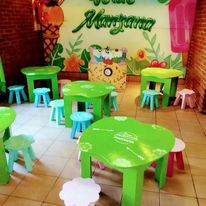
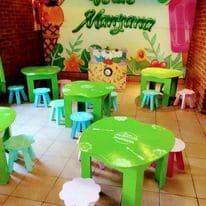
Se comprimieron las imagenes

diff --git a/pages/quienes.html b/pages/quienes.html
@@ -48,7 +48,8 @@
                         ofrecerte un lugar donde
                         tu
                         festejo se transforme en un recuerdo inolvidable!!!</p>
-                    <p>Así nació <span class="verdeM">“Verde Manzana”</span> el lugar donde tus fiestas se transforman en recuerdos
+                    <p>Así nació <span class="verdeM">“Verde Manzana”</span> el lugar donde tus fiestas se transforman
+                        en recuerdos
                         inolvidables.
                         Desde junio de 2007 que damos lo mejor de nosotros para que grandes y chicos pueden disfrutar
                         con
@@ -60,9 +61,10 @@
                         último en tecnología para que todos tengan su mejor festejo.</p>
                     <p>Y así son nuestros días, de lunes a domingo sin importar feriados, siempre tenemos todo
                         preparado,
-                        para que tu fiesta se vuelva inolvidable.</p>
-                    <p><span class="verdeM"> Estamos para darte lo mejor
-                            "Verde Manzana" </span></p>
+                        para que tu fiesta se vuelva inolvidable.
+                        <span class="verdeM"> "Estamos para darte lo mejor
+                            Verde Manzana" </span>
+                    </p>
 
                 </div>
 

diff --git a/index.html b/index.html
@@ -141,7 +141,7 @@
         <nav>
             <ul>
                 <li> <a href="#imagenes">Inicio</a> </li>
-                <li> <a href="mailto:verdemanzana@gmail.com">Email</a> </li>
+                <li> <a href="mailto:verdemanzana08@gmail.com">Email</a> </li>
                 <li> <a href="./pages/quienes.html#fqas">Preguntas Frecuentes</a> </li>
             </ul>
         </nav>
@@ -150,7 +150,7 @@
             <a href="https://www.instagram.com/explore/tags/tumejorfestejo/" class="bi bi-instagram"
                 target="_blank"></a>
             <a href="https://www.facebook.com/verdemanzana2008/" class="bi bi-facebook" target="_blank"></a>
-            <a href="https://wa.me/+5491158848056" class="bi bi-whatsapp" target="_blank"></a>
+            <a href="https://wa.me/+5491140988515" class="bi bi-whatsapp" target="_blank"></a>
 
         </div>
 
